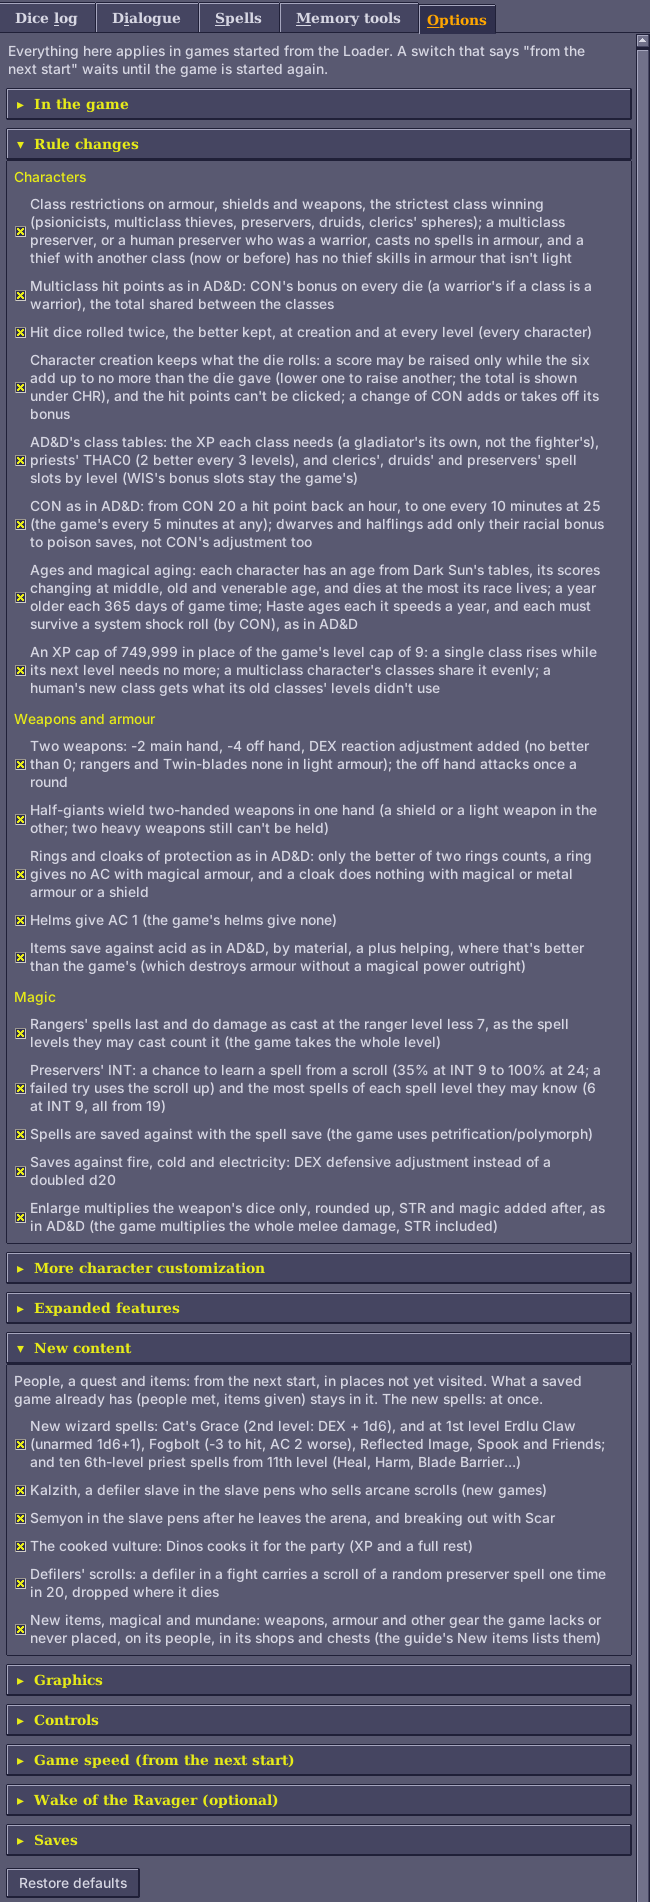
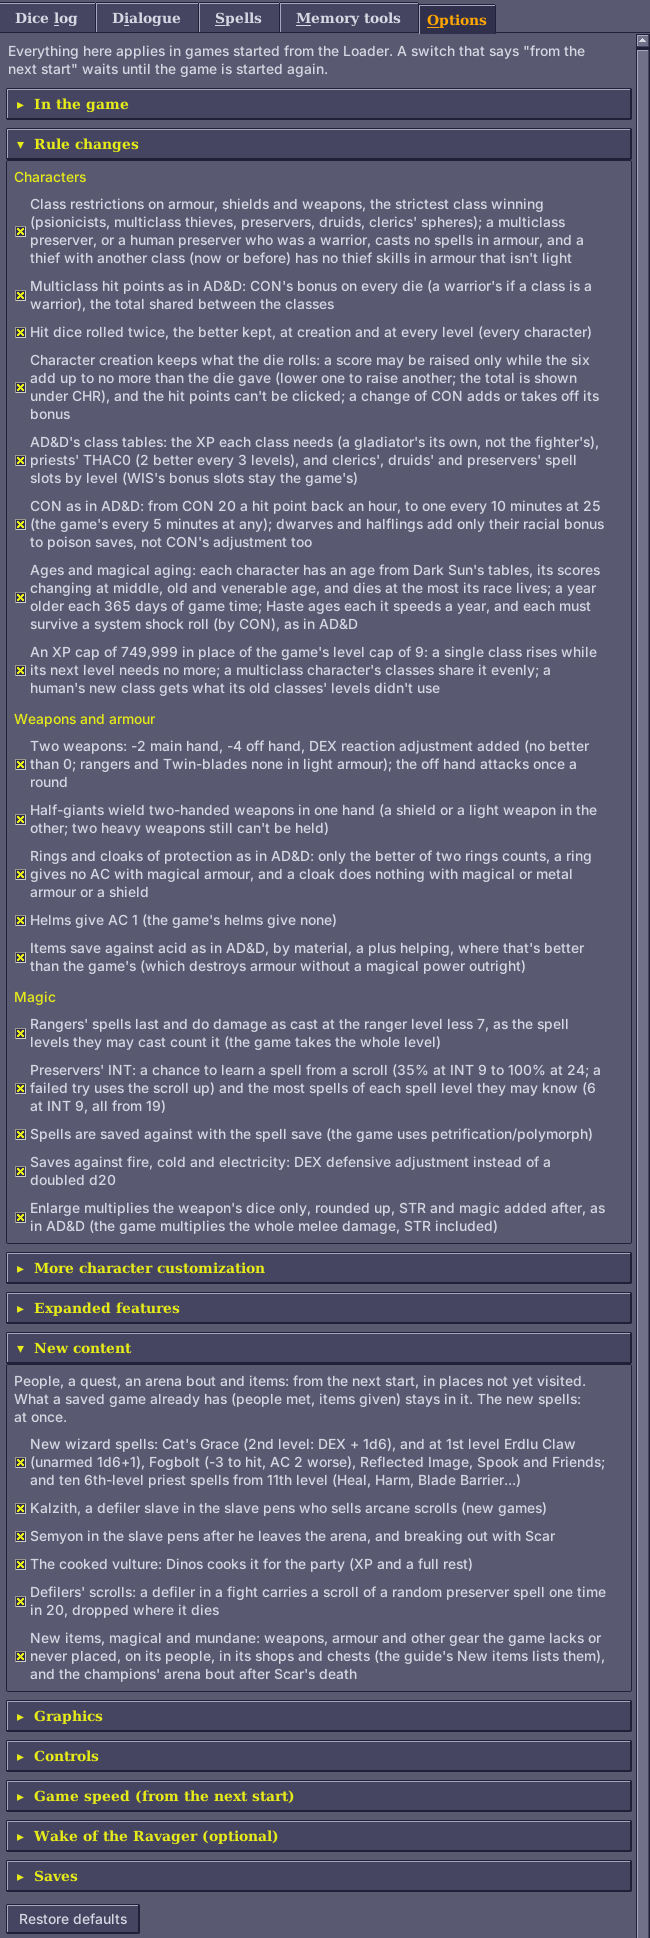
Docs: the champions' bout in the patch notes, README and Options tab (options.png retaken); FEATURES' champions in a table
Claude-Session: https://claude.ai/code/session_01BNiWkhyZSJPYsN3zRrweVp

Changed region(s): [[0.0, 0.0, 0.9846, 0.9926], [0.9846, 0.0, 1.0, 0.031]]

diff --git a/patch-notes.html b/patch-notes.html
@@ -193,7 +193,7 @@ footer { max-width: 1080px; margin: 0 auto; padding-block: 28px 56px; border-top
 </section>
 <section id="world">
 <h2>World</h2>
-<ul><li><span class="tag new">New</span><strong>Kalzith</strong>, a defiler slave who scribes spell scrolls by night and sells them to anyone who treats him with respect.</li><li><span class="tag new">New</span>More of <strong>Semyon</strong>'s story, for players who help him in the arena.</li><li><span class="tag new">New</span>A use for the cooked vulture: share it with the pens' cook for a full rest and 100 XP each.</li><li><span class="tag new">New</span>Merchants give your party leader a discount for high Charisma, from 5% at CHA 18 to 40% at 25.</li><li><span class="tag chg">Changed</span>Merchants pay 60% of an item's price <span class="was">(was all of it)</span>.</li><li><span class="tag new">New</span>Merchants keep the magical items you sell them, to buy back <span class="was">(was destroyed when sold)</span>.</li><li><span class="tag new">New</span>Scar's henchmen carry bone axes, which they drop when they fall.</li></ul>
+<ul><li><span class="tag new">New</span><strong>Kalzith</strong>, a defiler slave who scribes spell scrolls by night and sells them to anyone who treats him with respect.</li><li><span class="tag new">New</span>More of <strong>Semyon</strong>'s story, for players who help him in the arena.</li><li><span class="tag new">New</span>A last arena bout: once Scar dies in the arena, six champions from a distant arena come to test the new king, led by a Tohr-kreen carrying <strong>Kreenfang</strong> (<a href="obsidian-edition/FEATURES.md#the-champions-bout">the champions' bout</a>).</li><li><span class="tag new">New</span>A use for the cooked vulture: share it with the pens' cook for a full rest and 100 XP each.</li><li><span class="tag new">New</span>Merchants give your party leader a discount for high Charisma, from 5% at CHA 18 to 40% at 25.</li><li><span class="tag chg">Changed</span>Merchants pay 60% of an item's price <span class="was">(was all of it)</span>.</li><li><span class="tag new">New</span>Merchants keep the magical items you sell them, to buy back <span class="was">(was destroyed when sold)</span>.</li><li><span class="tag new">New</span>Scar's henchmen carry bone axes, which they drop when they fall.</li></ul>
 </section>
 <section id="graphics">
 <h2>Graphics</h2>
@@ -216,7 +216,7 @@ footer { max-width: 1080px; margin: 0 auto; padding-block: 28px 56px; border-top
 <section id="your-saved-games">
 <h2>Your Saved Games</h2>
 <p><strong>You don't need to start a new game for these fixes.</strong> They're in the patched game and the Loader, not in your saves, so they work from the moment you load: images, Armor's charges, Share Strength, Dispel Magic and the rest follow the new rules from the next spell cast, even on effects already running. The fixes stop the old bugs from happening, but don't undo what they already did to a save:</p>
-<ul><li>A character who kept the strength from Share Strength after the power ended still has it (it shows on their Effects screen). Load a save from before the power was used to be rid of it.</li><li>A character silenced by the preserver's Dispel Magic ("No spell use" on their Effects screen) casts again once it wears off.</li><li>A new game whose arena fight never began (no announcer, and walking said NO PATH FROM HERE: a 2.4.0 bug) can't be mended: start a new one.</li><li>Thieves' Tools from an earlier version of the mod (Mirlon's or Kel's) do nothing now: a thief picks pockets with the Pick Pockets button.</li><li>A Healer from an earlier version keeps its sphere and is given the cosmos spells when the game is loaded (the dice log says so).</li><li>With ages on, each character in a save, the game's own party too, is given a starting age the first time the Loader sees them (the dice log shows the roll).</li><li><strong>A save made with 2.13.0 or later is not for earlier versions, and one made with 2.13.2 or later not for 2.13.1 or earlier:</strong> the weapon specs are kept packed with the age and each character's starting roll beside them, which an older Loader reads as other specs. Older saves load in newer versions as they are: a character keeps its age, and its roll is put on its sheet when the game is loaded.</li><li>A thri-kreen <strong>druid/fighter</strong> Wasteland Seer from an earlier version has no kit now: the Wasteland Seer is for a thri-kreen druid/fighter/psionicist.</li><li>In a save from 1.2.0 to 2.5.0 that has already been to the slave pens, the weapon rack holding <strong>Thornwall</strong> is gone from the pens (a new game has it). Fixing items that couldn't be swapped in a pack meant renumbering the rack, and the game drops an object it no longer finds.</li></ul>
+<ul><li>A character who kept the strength from Share Strength after the power ended still has it (it shows on their Effects screen). Load a save from before the power was used to be rid of it.</li><li>A character silenced by the preserver's Dispel Magic ("No spell use" on their Effects screen) casts again once it wears off.</li><li>A new game whose arena fight never began (no announcer, and walking said NO PATH FROM HERE: a 2.4.0 bug) can't be mended: start a new one.</li><li>Thieves' Tools from an earlier version of the mod (Mirlon's or Kel's) do nothing now: a thief picks pockets with the Pick Pockets button.</li><li>A Healer from an earlier version keeps its sphere and is given the cosmos spells when the game is loaded (the dice log says so).</li><li>With ages on, each character in a save, the game's own party too, is given a starting age the first time the Loader sees them (the dice log shows the roll).</li><li><strong>A save made with 2.13.0 or later is not for earlier versions, and one made with 2.13.2 or later not for 2.13.1 or earlier:</strong> the weapon specs are kept packed with the age and each character's starting roll beside them, which an older Loader reads as other specs. Older saves load in newer versions as they are: a character keeps its age, and its roll is put on its sheet when the game is loaded.</li><li>A thri-kreen <strong>druid/fighter</strong> Wasteland Seer from an earlier version has no kit now: the Wasteland Seer is for a thri-kreen druid/fighter/psionicist.</li><li>In a save from 1.2.0 to 2.5.0 that has already been to the slave pens, the weapon rack is gone from the pens, so <strong>Thornwall</strong> never comes onto it after Semyon's tip (a new game has the rack). Fixing items that couldn't be swapped in a pack meant renumbering the rack, and the game drops an object it no longer finds.</li></ul>
 <p><strong>A new game is still the way to see all of the mod.</strong> Kits, STORE and RECALL and fuller starting gear come with characters made with the mod, and much of the new content (Kalzith, Semyon, the vulture, the new items in the slave pens) is in the game's first areas. A save made with the original game loads and plays with every fix and rule change, but its characters have no kits, and what it has already been through stays as it was.</p>
 </section>
   </main>
@@ -472,6 +472,7 @@ The plain weapons the game never had, sold by merchants and carried across Athas
 
 - **[New]** **Kalzith**, a defiler slave who scribes spell scrolls by night and sells them to anyone who treats him with respect.
 - **[New]** More of **Semyon**'s story, for players who help him in the arena.
+- **[New]** A last arena bout: once Scar dies in the arena, six champions from a distant arena come to test the new king, led by a Tohr-kreen carrying **Kreenfang** ([the champions' bout](obsidian-edition/FEATURES.md#the-champions-bout)).
 - **[New]** A use for the cooked vulture: share it with the pens' cook for a full rest and 100 XP each.
 - **[New]** Merchants give your party leader a discount for high Charisma, from 5% at CHA 18 to 40% at 25.
 - **[Changed]** Merchants pay 60% of an item's price *(was all of it)*.
@@ -586,7 +587,7 @@ Rules the game got wrong are put right too, each under its own heading above wit
 - With ages on, each character in a save, the game's own party too, is given a starting age the first time the Loader sees them (the dice log shows the roll).
 - **A save made with 2.13.0 or later is not for earlier versions, and one made with 2.13.2 or later not for 2.13.1 or earlier:** the weapon specs are kept packed with the age and each character's starting roll beside them, which an older Loader reads as other specs. Older saves load in newer versions as they are: a character keeps its age, and its roll is put on its sheet when the game is loaded.
 - A thri-kreen **druid/fighter** Wasteland Seer from an earlier version has no kit now: the Wasteland Seer is for a thri-kreen druid/fighter/psionicist.
-- In a save from 1.2.0 to 2.5.0 that has already been to the slave pens, the weapon rack holding **Thornwall** is gone from the pens (a new game has it). Fixing items that couldn't be swapped in a pack meant renumbering the rack, and the game drops an object it no longer finds.
+- In a save from 1.2.0 to 2.5.0 that has already been to the slave pens, the weapon rack is gone from the pens, so **Thornwall** never comes onto it after Semyon's tip (a new game has the rack). Fixing items that couldn't be swapped in a pack meant renumbering the rack, and the game drops an object it no longer finds.
 
 **A new game is still the way to see all of the mod.** Kits, STORE and RECALL and fuller starting gear come with characters made with the mod, and much of the new content (Kalzith, Semyon, the vulture, the new items in the slave pens) is in the game's first areas. A save made with the original game loads and plays with every fix and rule change, but its characters have no kits, and what it has already been through stays as it was.
 </script>

diff --git a/obsidian-edition/dsloader/viewer.py b/obsidian-edition/dsloader/viewer.py
@@ -367,7 +367,7 @@ class Viewer:
         # the Loader's own content: people, a quest and items in the game, and the new spells. Some
         # are written into the game's files when it is started; what a save already has stays
         new = section("new_content", "New content")
-        ttk.Label(new, text="People, a quest and items: from the next start, in places "
+        ttk.Label(new, text="People, a quest, an arena bout and items: from the next start, in places "
                   "not yet visited. What a saved game already has (people met, items given) stays in it. "
                   "The new spells: at once.",
                   wraplength=460).pack(anchor="w")
@@ -482,7 +482,7 @@ class Viewer:
                                     "preserver spell one time in 20, dropped where it dies"),
                 (launch.NEW_ITEMS, "New items, magical and mundane: weapons, armour and other gear the game "
                                    "lacks or never placed, on its people, in its shops and chests (the guide's "
-                                   "New items lists them)")):
+                                   "New items lists them), and the champions' arena bout after Scar's death")):
             self.content_vars[key] = tk.BooleanVar(value=settings.get(key, True) is not False)
             ttk.Checkbutton(new, text=text, variable=self.content_vars[key],
                             command=self._options_changed).pack(anchor="w", pady=(4, 0))

diff --git a/obsidian-edition/dsloader/arms.py b/obsidian-edition/dsloader/arms.py
@@ -1,11 +1,12 @@
 """Two plain weapons made magic (the MAGIC_ARMS switch, on unless turned off), in the game's data
 (dataitems.py: the Loader's copy of SEGOBJEX, written as the game is started).
 
-- The 2 handed Bone Gythka on the dead body lying by the stone arch in the arena, where every game
-  starts: Kreenfang, a gythka +1. The body is the game's object 1204, "Dead Body" (an item whose
-  contents are a list: its record has the gythka in it), used nowhere else; in the copy, that
-  gythka is Kreenfang. Every other gythka stays plain: the one the arena also has lying loose
-  (object 1011), and those in kreen hands.
+- Kreenfang, a gythka +1: the champions' Tohr-kreen carries it (champions.py). Only when the
+  champions can't be made (kreenfang_chunks, worldgear's fallback) is it, as before them, the
+  2 handed Bone Gythka on the dead body lying by the stone arch in the arena, where every game
+  starts: the game's object 1204, "Dead Body" (an item whose contents are a list: its record has
+  the gythka in it), used nowhere else. Every other gythka stays plain: the one the arena also has
+  lying loose (object 1011), and those in kreen hands.
 - Kurzak's Short Sword (npcitems.py): Shadowseeker, a short sword +1. Whoever wields it (in either
   hand) can see the invisible: the game's own way with a magic item's spell (its +0Fh, one past
   the spell's number), which it puts on the wearer when the item is readied and takes off when

diff --git a/obsidian-edition/dsloader/champions.py b/obsidian-edition/dsloader/champions.py
@@ -9,7 +9,7 @@ Kreenfang (the arena's gythka +1, no longer on the dead body by the stone arch).
   gladiator (the Wild Mul, 290) with two bone axes and the same armour; a halfling renegade (the
   Renegade, 289) with a sling, a bone short sword, full leather armour, a leather helm and a
   leather shield; an elven ranger (an elven caravan guard, 103) with a bow and arrows, an obsidian
-  long sword and the same leather and shield (a thri-kreen and a defiler wear none); a
+  long sword and the same leather, helm and shield (the Tohr-kreen and the defiler wear none); a
   defiler (the arena's, 296) with a bone dagger and one scroll, chosen as it comes on, of
   Fogbolt, Spook or Reflected Image (the new spells; without them, of the game's own spells).
 - Worn and wielded: the game makes a person's items in its backpack list (+0Ch) and fights with

diff --git a/obsidian-edition/FEATURES.md b/obsidian-edition/FEATURES.md
@@ -1774,7 +1774,7 @@ effect in regions the party hasn't visited yet; start a new game to have them
 all. The dice log doesn't say where they are; [Items](ITEMS.md) does, with spoilers.
 
 **New items, magical and mundane** on the Options tab places them all, the
-arena's ring too. A thief can [lift](#picking-pockets) Pehtucl's ring,
+arena's ring too, and brings [the champions' bout](#the-champions-bout). A thief can [lift](#picking-pockets) Pehtucl's ring,
 Shadowseeker, Gutterknot and Mindshard (200 XP for each weapon).
 
 **Where they are.** The mod's items are in the [item tables](ITEMS.md) with the
@@ -1976,13 +1976,14 @@ of his own above Kalzith's, the first time the party is in the pens after it.
 His other ways out stay as in the game, and so does a Semyon who was killed: he
 isn't in the pens. Talk to him (Look, then Talk): he says why the templars tied
 him up in the arena (he was asking about the Veiled Alliance), passes on what he
-has heard (who carries keys), tells of a weapon shipment he passed ("Guards were
-fussing over one crate like it held something special. I didn't see where they
-took it, but it can't have gone far": from then on the pens' weapon rack holds
-**Thornwall**, a bone polearm +1, and once the party carries it he has a word
-about it),
-reminds the party where he hid his gem (the grain pots), and talks about the
-Alliance's plans, in his own voice from the arena.
+has heard (who carries keys), reminds the party where he hid his gem (the grain
+pots), and talks about the Alliance's plans, in his own voice from the arena.
+With the new items on, he also tells of a weapon shipment he passed ("Seen
+anything useful?": "Guards were fussing over one crate like it held something
+special. I didn't see where they took it, but it can't have gone far"). From
+then on the pens' weapon rack holds **Thornwall**, a bone polearm +1, and once
+the party carries it he has a word about it ("We found what was in that
+crate.").
 As with the game's own people, each question goes from the list once asked,
 and comes back the next time you talk to him.
 
@@ -2044,15 +2045,20 @@ visit to the arena the Announcer has news:
 > leader, a Tohr-kreen, carries a gythka that has drunk the blood of a hundred
 > gladiators.
 
-The first wave is six **champions** in place of the game's: a Tohr-kreen with
-**Kreenfang** (a gythka +1), a half-giant with a metal great axe, a leather
-shield, full scale armour and a bone helm, a mul gladiator with two bone axes
-and the same armour, a halfling with a sling, a bone short sword, full leather
-armour, a leather helm and a leather shield, an elven ranger with a bow and
-arrows, an obsidian long sword and the same leather and shield (the Tohr-kreen and the defiler wear none), and a defiler with a bone dagger and a scroll (Fogbolt, Spook or
-Reflected Image, chosen as the bout starts). They fight with their weapons, the
-two archers shooting, and their armour counts for their AC, as the party's
-does: the game's own people carry their gear but fight with their bare numbers.
+The first wave is six **champions** in place of the game's:
+
+| Champion | Weapons | Armour |
+|---|---|---|
+| Tohr-kreen | **Kreenfang** (a gythka +1) | none |
+| Half-giant | a metal great axe | full scale, a bone helm, a leather shield |
+| Mul gladiator | two bone axes | full scale, a bone helm |
+| Halfling | a sling, a bone short sword | full leather, a leather helm, a leather shield |
+| Elf | a bow and arrows, an obsidian long sword | full leather, a leather helm, a leather shield |
+| Defiler | a bone dagger, and a scroll of Fogbolt, Spook or Reflected Image (chosen as the bout starts) | none |
+
+They fight with their weapons, the two archers shooting, and their armour counts
+on top of their kinds' AC, as the party's does (the game's own people carry
+their gear but fight with their bare numbers).
 What they carry is on their bodies afterwards; the Tohr-kreen falls as a dead
 Tohr-kreen of its own, Kreenfang in it. It comes once. A party that breaks out
 with Scar instead, or leaves the pens another way, doesn't meet them. (The dead

diff --git a/PATCH-NOTES.md b/PATCH-NOTES.md
@@ -245,6 +245,7 @@ The plain weapons the game never had, sold by merchants and carried across Athas
 
 - **[New]** **Kalzith**, a defiler slave who scribes spell scrolls by night and sells them to anyone who treats him with respect.
 - **[New]** More of **Semyon**'s story, for players who help him in the arena.
+- **[New]** A last arena bout: once Scar dies in the arena, six champions from a distant arena come to test the new king, led by a Tohr-kreen carrying **Kreenfang** ([the champions' bout](obsidian-edition/FEATURES.md#the-champions-bout)).
 - **[New]** A use for the cooked vulture: share it with the pens' cook for a full rest and 100 XP each.
 - **[New]** Merchants give your party leader a discount for high Charisma, from 5% at CHA 18 to 40% at 25.
 - **[Changed]** Merchants pay 60% of an item's price *(was all of it)*.
@@ -359,6 +360,6 @@ Rules the game got wrong are put right too, each under its own heading above wit
 - With ages on, each character in a save, the game's own party too, is given a starting age the first time the Loader sees them (the dice log shows the roll).
 - **A save made with 2.13.0 or later is not for earlier versions, and one made with 2.13.2 or later not for 2.13.1 or earlier:** the weapon specs are kept packed with the age and each character's starting roll beside them, which an older Loader reads as other specs. Older saves load in newer versions as they are: a character keeps its age, and its roll is put on its sheet when the game is loaded.
 - A thri-kreen **druid/fighter** Wasteland Seer from an earlier version has no kit now: the Wasteland Seer is for a thri-kreen druid/fighter/psionicist.
-- In a save from 1.2.0 to 2.5.0 that has already been to the slave pens, the weapon rack holding **Thornwall** is gone from the pens (a new game has it). Fixing items that couldn't be swapped in a pack meant renumbering the rack, and the game drops an object it no longer finds.
+- In a save from 1.2.0 to 2.5.0 that has already been to the slave pens, the weapon rack is gone from the pens, so **Thornwall** never comes onto it after Semyon's tip (a new game has the rack). Fixing items that couldn't be swapped in a pack meant renumbering the rack, and the game drops an object it no longer finds.
 
 **A new game is still the way to see all of the mod.** Kits, STORE and RECALL and fuller starting gear come with characters made with the mod, and much of the new content (Kalzith, Semyon, the vulture, the new items in the slave pens) is in the game's first areas. A save made with the original game loads and plays with every fix and rule change, but its characters have no kits, and what it has already been through stays as it was.

diff --git a/obsidian-edition/README.md b/obsidian-edition/README.md
@@ -76,7 +76,8 @@ in DOSBox. You start the game with the **Dark Sun Obsidian Edition Loader**
   Friends](FEATURES.md#new-wizard-spells)) and ten [6th-level priest
   spells](FEATURES.md#6th-level-priest-spells) (Heal, Blade Barrier,
   Whirlwind, Restore Youth...), Kalzith (a defiler who sells scrolls), defilers who drop
-  scrolls, more of Semyon's story, and a use for the cooked vulture ([New
+  scrolls, more of Semyon's story, a last arena bout against six champions,
+  and a use for the cooked vulture ([New
   content](FEATURES.md#new-content)). On the map, the party wears its weapons
   and armour (its magic gear glinting), figures cast shadows and kick up dust,
   and elves and half-elves have a look of their own; and the game's magic items
@@ -281,7 +282,7 @@ save:
   (a level up, or a game starting): the game's own bonuses for CON, INT and WIS
   are counted right now, and the most only ever rises.
 - In a save from 1.2.0 to 2.5.0 that has already been to the slave pens, the
-  weapon rack is gone, and with it Thornwall's place (a new game has it).
+  weapon rack is gone, so Thornwall never comes (a new game has the rack).
 - A new game whose arena fight never began (no announcer, and walking said NO
   PATH FROM HERE: a 2.4.0 bug) can't be mended: start a new one.
 - **A save made with 2.13.0 or later is not for earlier versions**, and one

diff --git a/CHANGELOG.md b/CHANGELOG.md
@@ -87,6 +87,13 @@ notes](PATCH-NOTES.md).
   Sling's icon, Slay Living's text) the Edition already has; v0.1.56-58 add yuan-ti's own spells
   as mods. OpenDS since 2026-11-01: Wake of the Ravager's mine elevator and its tools' docs.
 
+**Docs**
+- The champions' bout in the patch notes' World list, the README's What it does and the Options
+  tab (New content's note and the New items switch; `options.png` retaken); FEATURES' champions
+  in a table (the elf's helm, left out, is leather), Semyon's shipment tip as needing the new
+  items. The 1.2.0-2.5.0 saves' known issue says Thornwall never comes (it was "the rack holding
+  Thornwall is gone"); `arms.py`'s docstring has Kreenfang on the champion.
+
 ## Pull request #85 ([merged 2026-11-02](https://github.com/daaki85/darksun-obsidian-edition/pull/85))
 
 Obsidian Edition 2.13.4 ([release notes](release-notes/v2.13.4.md)).
